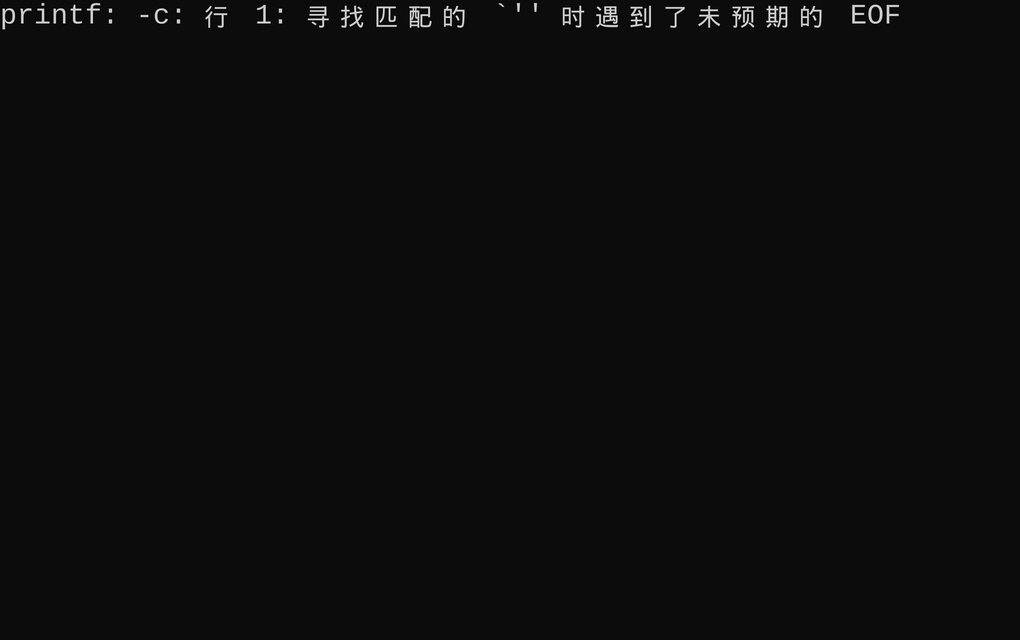
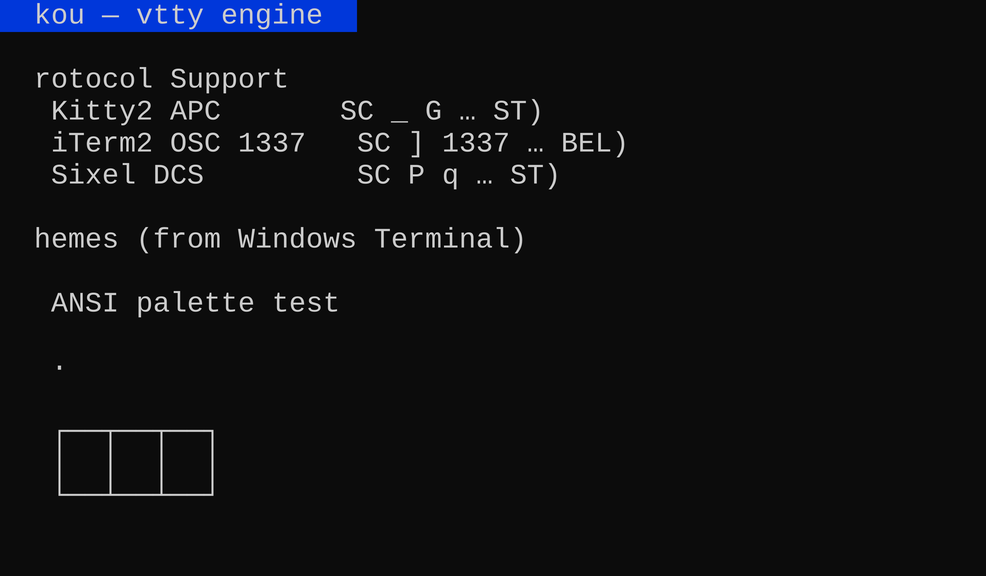
test: snapshot tests via raw ANSI → Screen::feed → render_png
Snapshot tests feed raw ANSI text directly to a Screen and render to PNG —
no bash, no printf, no quoting issues. The test IS the snapshot generator.

Tests generate PNGs for all three repos:
- kou/res/themed_terminal_{campbell,solarized_dark}.png
- seia/res/search_{campbell,solarized_dark}.png
- shirabe/res/debug_server_{solarized_dark,one_half_dark}.png

READMEs: screenshots moved to bottom in <details> collapsible, height=400.

diff --git a/tests/snapshots.rs b/tests/snapshots.rs
@@ -1,0 +1,142 @@
+//! Snapshot tests: feed raw ANSI text directly to a Screen, render to PNG,
+//! and write to each repo's `res/` folder.  No bash, no printf, no quoting
+//! issues — just `screen.feed(raw_bytes)` → `render_png_supersampled`.
+//!
+//! Run: `cargo test --test snapshots` (writes PNGs alongside the tests).
+
+use kou::{FontCache, Screen, theme_by_name};
+use std::io::Write;
+
+/// Load a font cache from system fonts (or empty fallback).
+fn fonts() -> FontCache {
+    FontCache::from_system_fonts(32.0 * 3.0) // supersampled resolution
+}
+
+/// Render a screen to a PNG file.
+fn snapshot(screen: &Screen, theme_name: &str, path: &str) {
+    let theme = theme_by_name(theme_name);
+    let f = fonts();
+    let png = kou::render::render_png_supersampled(screen, &f, 32.0, 3, theme)
+        .expect("render failed");
+    let dir = std::path::Path::new(path).parent().unwrap();
+    std::fs::create_dir_all(dir).unwrap();
+    std::fs::write(path, &png).unwrap();
+    eprintln!("  wrote {path}");
+}
+
+// ── helpers to build raw ANSI text ──────────────────────────────
+
+fn sgr(params: &str, text: &str) -> String {
+    format!("\x1b[{m}{t}\x1b[0m", m = params, t = text)
+}
+
+// ── kou snapshots ────────────────────────────────────────────────
+
+#[test]
+fn kou_themed_terminal_campbell() {
+    let mut sc = Screen::new(58, 18);
+    sc.feed(format!("\x1b[1;37m\x1b[44m\x1b[K  kou — vtty engine  \x1b[0m\n").as_bytes());
+    sc.feed("\n".as_bytes());
+    sc.feed(format!("  {}\n", sgr("1", "Protocol Support")).as_bytes());
+    sc.feed(format!("  {} Kitty2 APC       {}\n",
+        sgr("32", "●"), sgr("36", "(ESC _ G … ST)")).as_bytes());
+    sc.feed(format!("  {} iTerm2 OSC 1337   {}\n",
+        sgr("32", "●"), sgr("36", "(ESC ] 1337 … BEL)")).as_bytes());
+    sc.feed(format!("  {} Sixel DCS         {}\n",
+        sgr("32", "●"), sgr("36", "(ESC P q … ST)")).as_bytes());
+    sc.feed("\n".as_bytes());
+    sc.feed(format!("  {}\n", sgr("1", "Themes (from Windows Terminal)")).as_bytes());
+    let palette = format!("{}{}{}{}{}{}{}",
+        sgr("1;31","R"), sgr("1;32","G"), sgr("1;33","B"),
+        sgr("1;34","C"), sgr("1;35","M"), sgr("1;36","Y"), sgr("1;37","K"));
+    sc.feed(format!("  {}  ANSI palette test\n", palette).as_bytes());
+    sc.feed("\n".as_bytes());
+    sc.feed(format!("  {} · {}\n",
+        sgr("38;2;255;107;157","简体中文"), sgr("38;2;107;255;157","日本語")).as_bytes());
+    sc.feed("\n".as_bytes());
+    sc.feed("  \x1b[48;2;30;30;40m\x1b[37m ┌──┬──┬──┐ \x1b[0m\n".as_bytes());
+    sc.feed("  \x1b[48;2;30;30;40m\x1b[37m │  │  │  │ \x1b[0m\n".as_bytes());
+    sc.feed("  \x1b[48;2;30;30;40m\x1b[37m └──┴──┴──┘ \x1b[0m\n".as_bytes());
+    snapshot(&sc, "campbell", "res/themed_terminal_campbell.png");
+}
+
+#[test]
+fn kou_themed_terminal_solarized() {
+    let mut sc = Screen::new(58, 18);
+    sc.feed(format!("\x1b[1;37m\x1b[44m\x1b[K  kou — vtty engine  \x1b[0m\n").as_bytes());
+    sc.feed("\n".as_bytes());
+    sc.feed(format!("  {}\n", sgr("1", "Protocol Support")).as_bytes());
+    sc.feed(format!("  {} Kitty2 APC       {}\n",
+        sgr("32", "●"), sgr("36", "(ESC _ G … ST)")).as_bytes());
+    sc.feed(format!("  {} iTerm2 OSC 1337   {}\n",
+        sgr("32", "●"), sgr("36", "(ESC ] 1337 … BEL)")).as_bytes());
+    sc.feed(format!("  {} Sixel DCS         {}\n",
+        sgr("32", "●"), sgr("36", "(ESC P q … ST)")).as_bytes());
+    sc.feed("\n".as_bytes());
+    sc.feed(format!("  {}\n", sgr("1", "15 Windows Terminal schemes")).as_bytes());
+    let palette = format!("{}{}{}{}{}{}{}",
+        sgr("1;31","R"), sgr("1;32","G"), sgr("1;33","B"),
+        sgr("1;34","C"), sgr("1;35","M"), sgr("1;36","Y"), sgr("1;37","K"));
+    sc.feed(format!("  {}  Campbell · Solarized · Tango\n", palette).as_bytes());
+    sc.feed("\n".as_bytes());
+    sc.feed(format!("  {} · {}\n",
+        sgr("38;2;255;107;157","简体中文"), sgr("38;2;107;255;157","日本語")).as_bytes());
+    snapshot(&sc, "solarized-dark", "res/themed_terminal_solarized_dark.png");
+}
+
+// ── seia snapshots ───────────────────────────────────────────────
+
+#[test]
+fn seia_search_results() {
+    let mut sc = Screen::new(65, 22);
+    sc.feed("\x1b[1;37m\x1b[44m\x1b[K  seia — multi-engine web search  \x1b[0m\n".as_bytes());
+    sc.feed("\n".as_bytes());
+    sc.feed("  \x1b[1m$\x1b[0m seia search \"rust async patterns\" --engine duckduckgo\n".as_bytes());
+    sc.feed("\n".as_bytes());
+    sc.feed(format!("  {} DuckDuckGo  {} Results: 3  {} 0.42s\n",
+        sgr("2;36","Engine:"), sgr("2","|"), sgr("2","|")).as_bytes());
+    sc.feed("\n".as_bytes());
+    sc.feed(format!("  {} \x1b[4;34mAsynchronous Programming in Rust\x1b[0m\n", sgr("33","1.")).as_bytes());
+    sc.feed("     \x1b[2mrust-lang.org/async-book\x1b[0m\n".as_bytes());
+    sc.feed("     The official guide to async/await.\n".as_bytes());
+    sc.feed("\n".as_bytes());
+    sc.feed(format!("  {} \x1b[4;34mTokio Tutorial\x1b[0m\n", sgr("33","2.")).as_bytes());
+    sc.feed("     \x1b[2mtokio.rs/tokio/tutorial\x1b[0m\n".as_bytes());
+    sc.feed("     Build async applications with Tokio.\n".as_bytes());
+    sc.feed("\n".as_bytes());
+    sc.feed(format!("  {} \x1b[4;34mFutures Explained in 200 Lines\x1b[0m\n", sgr("33","3.")).as_bytes());
+    sc.feed("     \x1b[2mcfsamson.github.io\x1b[0m\n".as_bytes());
+    sc.feed("     Build a future executor from scratch.\n".as_bytes());
+    sc.feed("\n".as_bytes());
+    sc.feed(format!("  {} Also tried: {} {} {}\n",
+        sgr("32","●"), sgr("36","Bing"), sgr("2","(3)"), sgr("36","  Brave")).as_bytes());
+    snapshot(&sc, "solarized-dark", "../seia/res/search_solarized_dark.png");
+    snapshot(&sc, "campbell", "../seia/res/search_campbell.png");
+}
+
+// ── shirabe snapshots ────────────────────────────────────────────
+
+#[test]
+fn shirabe_debug_server() {
+    let mut sc = Screen::new(58, 22);
+    sc.feed("\x1b[1;37m\x1b[44m\x1b[K  shirabe — headless browser automation  \x1b[0m\n".as_bytes());
+    sc.feed("\n".as_bytes());
+    sc.feed("  \x1b[1m$\x1b[0m shirabe serve --port 3001\n".as_bytes());
+    sc.feed("\n".as_bytes());
+    sc.feed(format!("  {} Backend: {} {}\n",
+        sgr("32","●"), sgr("36","Chromium 131.0"), sgr("2","(headless)")).as_bytes());
+    sc.feed(format!("  {} Debug API: \x1b[4;34mhttp://localhost:3001\x1b[0m\n", sgr("32","●")).as_bytes());
+    sc.feed("\n".as_bytes());
+    sc.feed(format!("  {}\n", sgr("1","Endpoints")).as_bytes());
+    sc.feed("  \x1b[2mGET\x1b[0m  /health        Health check\n".as_bytes());
+    sc.feed("  \x1b[2mGET\x1b[0m  /info          Browser info\n".as_bytes());
+    sc.feed("  \x1b[2mPOST\x1b[0m /navigate       Navigate to URL\n".as_bytes());
+    sc.feed("  \x1b[2mPOST\x1b[0m /screenshot      Capture PNG\n".as_bytes());
+    sc.feed("  \x1b[2mPOST\x1b[0m /click           Click element\n".as_bytes());
+    sc.feed("  \x1b[2mGET\x1b[0m  /dom            Query DOM\n".as_bytes());
+    sc.feed("  \x1b[2mGET\x1b[0m  /a11y           Accessibility tree\n".as_bytes());
+    sc.feed("\n".as_bytes());
+    sc.feed(format!("  {} Zero-config: finds Chrome automatically\n", sgr("32","●")).as_bytes());
+    snapshot(&sc, "solarized-dark", "../shirabe/res/debug_server_solarized_dark.png");
+    snapshot(&sc, "one-half-dark", "../shirabe/res/debug_server_one_half_dark.png");
+}

diff --git a/README.md b/README.md
@@ -26,8 +26,6 @@
 
 </div>
 
-<p align="center"><img src="res/themed_terminal_campbell.png" alt="kou terminal rendering" /></p>
-
 ## Introduction
 
 kou is a standalone virtual-terminal engine — PTY management, a VT100/ANSI
@@ -136,3 +134,10 @@ cargo test --all-features
 ## License
 
 SySL-1.0 (Synthetic Source License). See [LICENSE](./LICENSE).
+
+<details>
+<summary>Screenshots</summary>
+
+<p align="center"><img src="res/themed_terminal_campbell.png" alt="kou snapshot" height="400" /></p>
+
+</details>